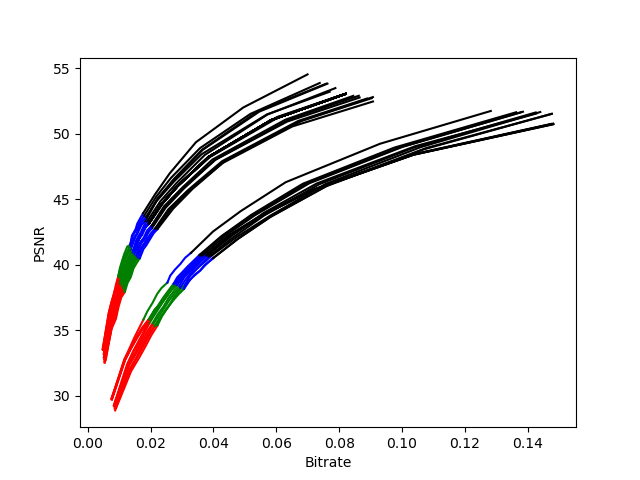
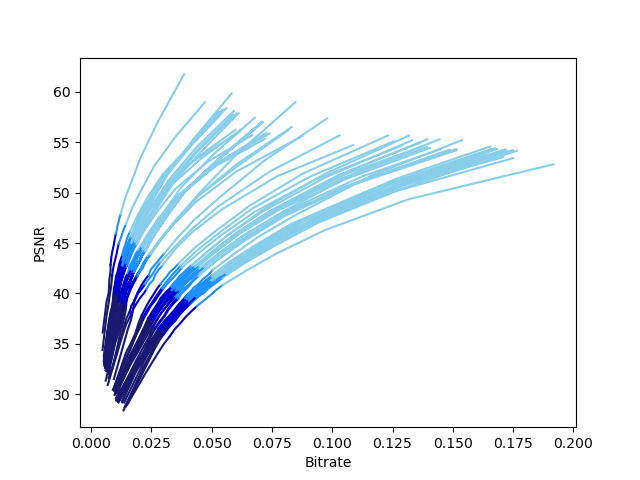
Improve visual.

diff --git a/multi.py b/multi.py
@@ -36,10 +36,10 @@ def main():
         p50 = sz // 2
         p75 = 3 * sz // 4
 
-        plt.plot(bitrate[:p25+1], psnr[:p25+1], color="red")
-        plt.plot(bitrate[p25:p50+1], psnr[p25:p50+1], color="green")
-        plt.plot(bitrate[p50:p75+1], psnr[p50:p75+1], color="blue")
-        plt.plot(bitrate[p75:], psnr[p75:], color="black")
+        plt.plot(bitrate[:p25+1], psnr[:p25+1], color="midnightblue")
+        plt.plot(bitrate[p25:p50+1], psnr[p25:p50+1], color="mediumblue")
+        plt.plot(bitrate[p50:p75+1], psnr[p50:p75+1], color="dodgerblue")
+        plt.plot(bitrate[p75:], psnr[p75:], color="skyblue")
 
     plt.xlabel("Bitrate")
     plt.ylabel(estimator.upper())
